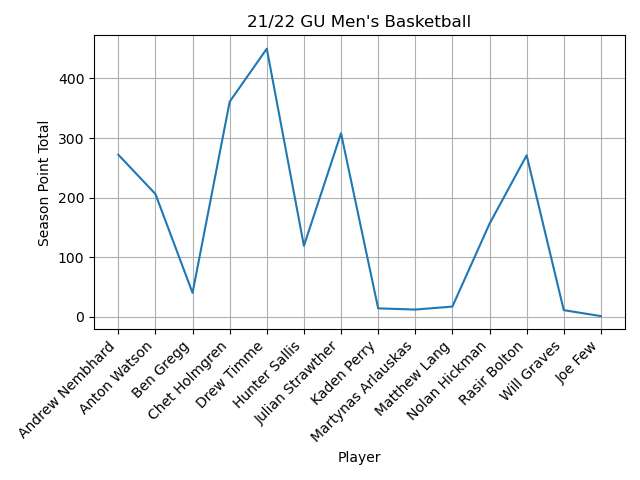
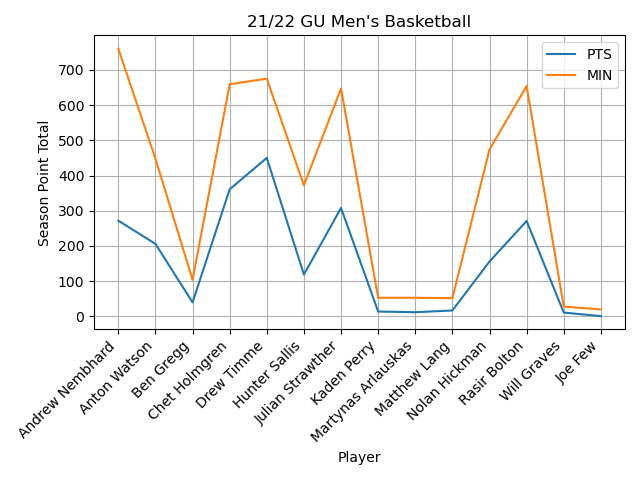
making plot fancy

diff --git a/VisualizationFun/main.py b/VisualizationFun/main.py
@@ -26,11 +26,12 @@ import matplotlib.pyplot as plt
 # 3. a mix of the first two
 
 # lets start with a simple line chart
-def line_chart_example(x, y, filename):
+def line_chart_example(x, y, y2, filename):
     # x and y are "sequences"
     # lists, series, numpy arrays, etc.
     # they are parallel
-    plt.plot(x, y)
+    plt.plot(x, y, label="PTS")
+    plt.plot(x, y2, label="MIN")
 
     # lets beautify the plot
     plt.xticks(rotation=45, ha="right")
@@ -38,6 +39,7 @@ def line_chart_example(x, y, filename):
     plt.ylabel("Season Point Total")
     plt.title("21/22 GU Men's Basketball")
     plt.grid()
+    plt.legend()
 
     plt.tight_layout() # call right before plt.show() or plt.savefig()
 
@@ -78,6 +80,6 @@ def main():
 
     # task: add another line to our chart 
     # for "MIN"
-    line_chart_example(df.index, df["PTS"], "line_example.png")
+    line_chart_example(df.index, df["PTS"], df["MIN"], "line_example.png")
 
 main()
